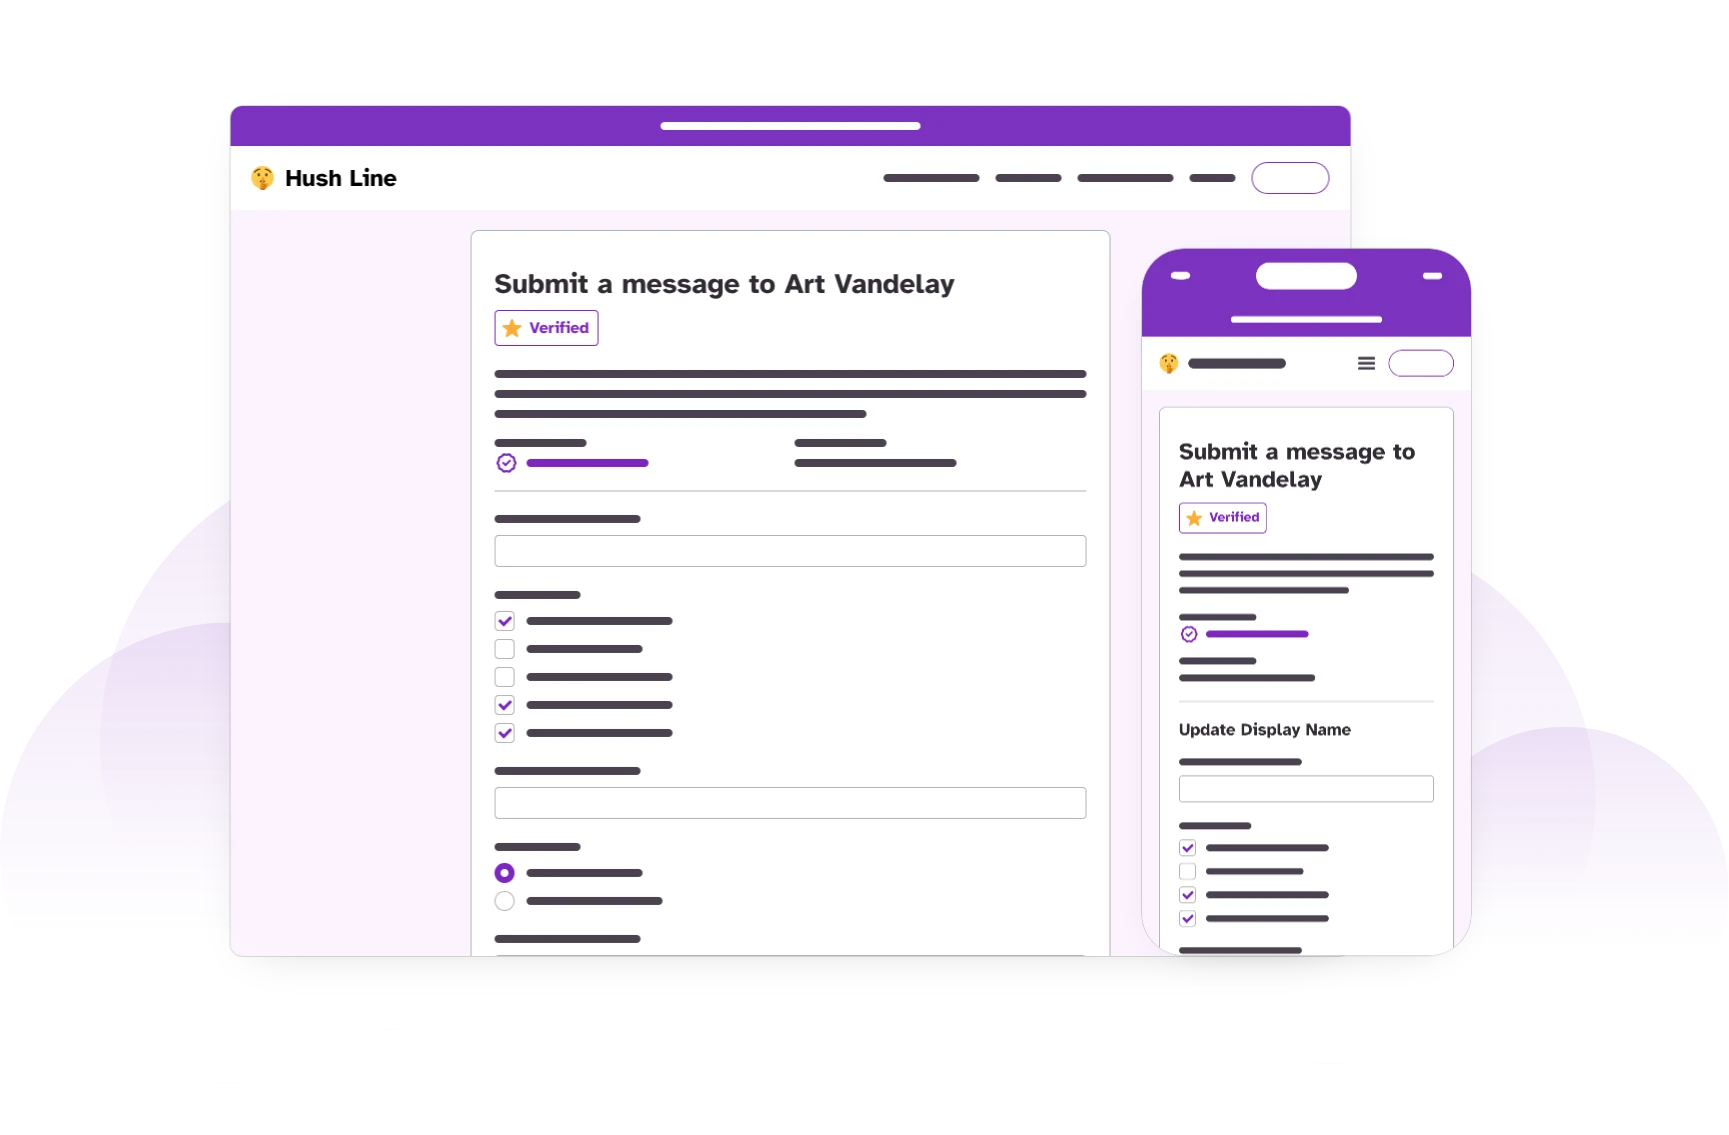
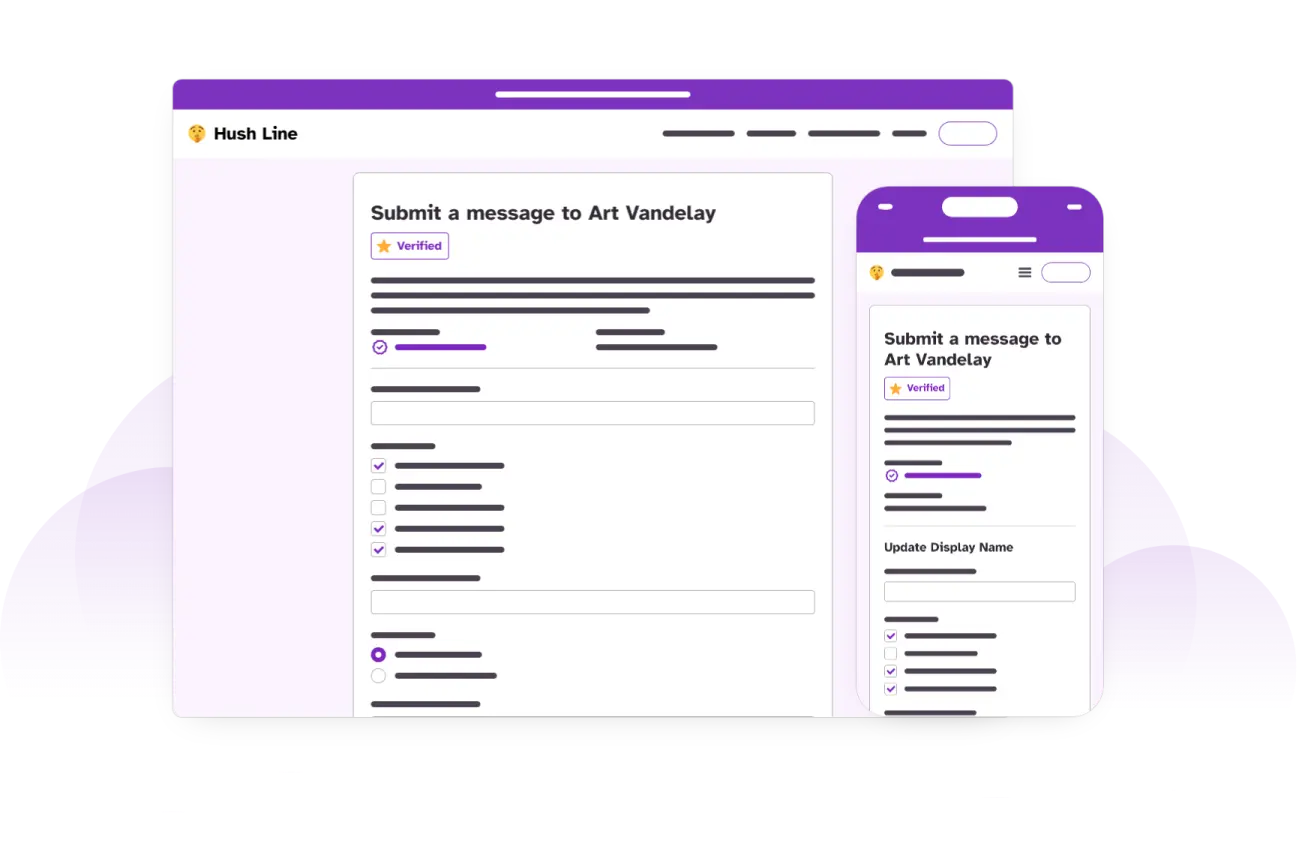
perf updates - mobile

diff --git a/src/index.html b/src/index.html
@@ -278,7 +278,7 @@
                         <p>Tip line owners can easily accept, decline, and archive messages and automatically let the
                             submitter know relevant next steps.</p>
                     </div>
-                    <img src="assets/img/triage.png" alt="Triage Messages">
+                    <img src="assets/img/triage.webp" alt="Triage Messages">
                 </div>
             </div>
             <div class="feature">
